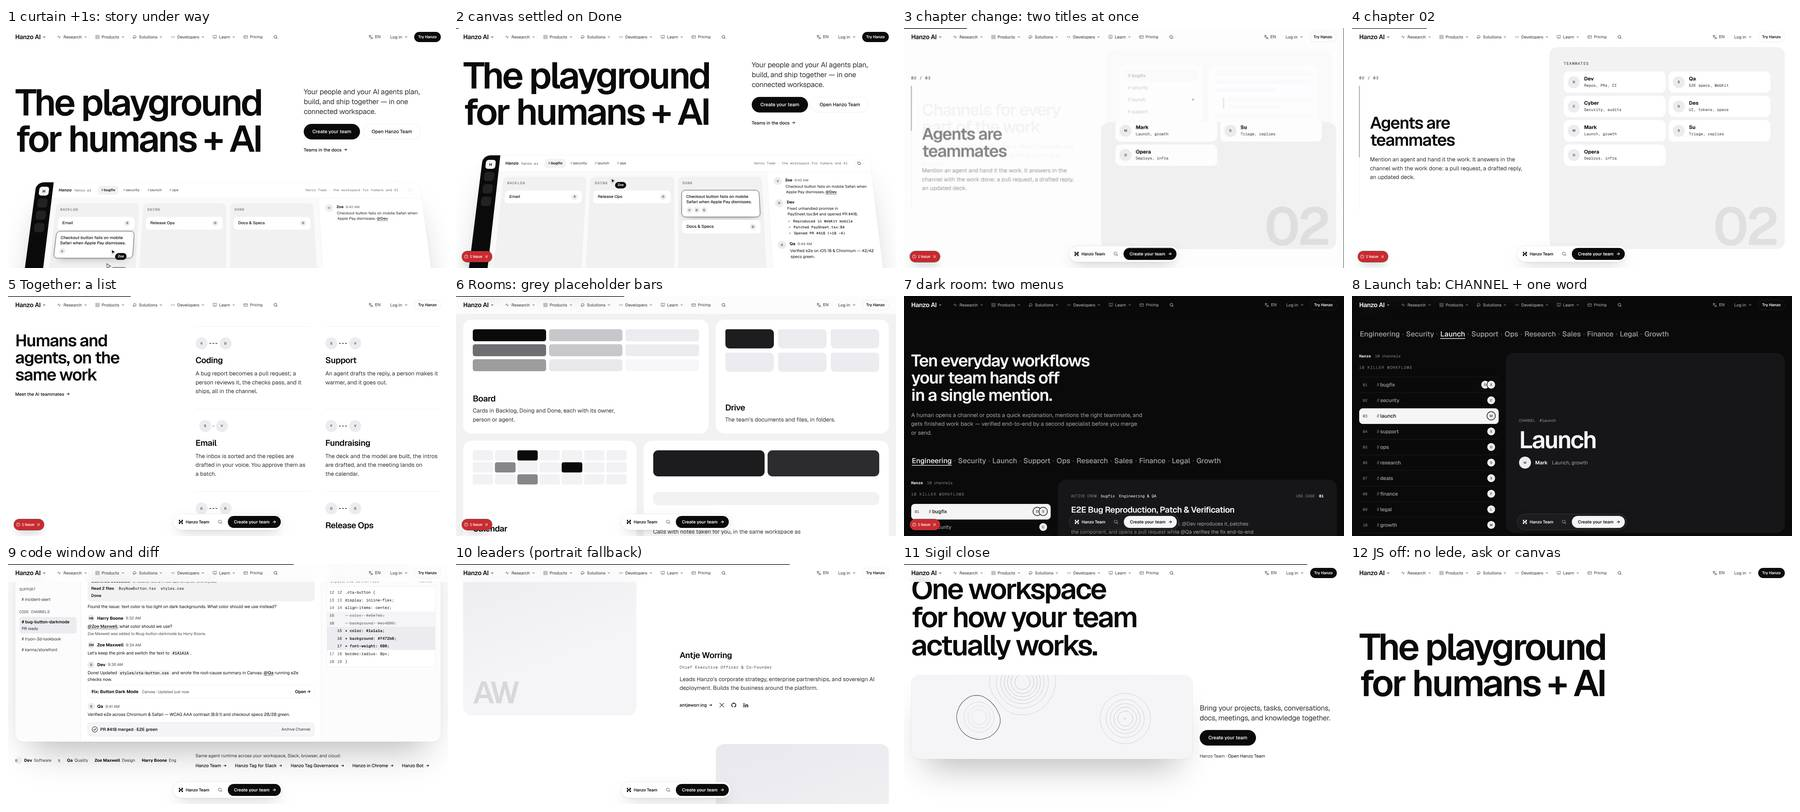
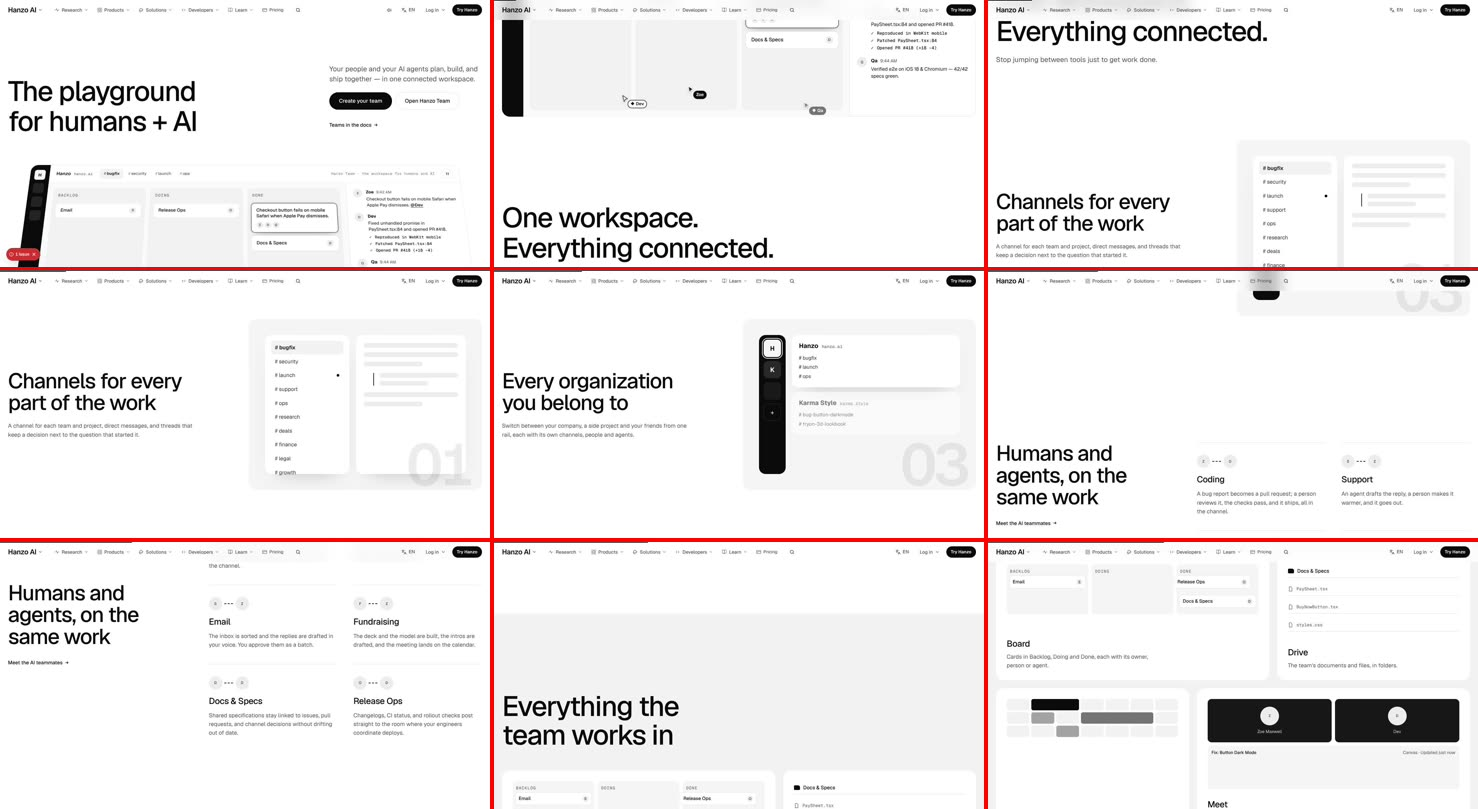
review: /team 6/10 (live canvas hero, then lists of tiles)
Claude-Session: https://claude.ai/code/session_01DqUybDEA5FZ4ZbAGVya4QA

diff --git a/docs/review/team.md b/docs/review/team.md
@@ -1,80 +1,38 @@
 # /team — James-eye review
 
 Verdict: 6/10
-First complaint: "The top is lovely, the little cursors actually doing the work. Then it goes dead. 'Everything the team works in' is six boxes of grey bars that look like the page hasn't loaded, and when I click Security I get one word on a black card."
+First complaint: "The top is great, the little cursors doing the work. Then it's section after section of little boxes with a sentence under each. I lost the thread halfway down."
 
-Walked 7 Nov, about 14:14 to 14:37 UTC. Page file at `215d6ed` (`components/pages/TeamPage.jsx`, `TeamPage.css`, with `company/PinScenes`, `company/MaskLines` and `Sigil`). HEAD moved from `521755e` to `a9f7245` during the walk, and the arrival was filmed again after `9e22aba` changed MaskLines. Filmed moving at 1470×801 and 375×812: wheel scroll and real touch swipes with a dwell on every screen, hover and press on desktop, and taps on the phone (Replay, every workflow tab, the team line, the six steps, Copy). Also checked reduced motion, JS off at both sizes, 320 and 375 widths, the console, layout shift and tap targets. Stills: `review/team/desktop-walk.jpg` (12 frames, captioned) and `review/team/phone-walk.jpg` (8 frames).
+Walked 7 Nov at about 15:07 UTC, page file at `94b550d0` (`components/pages/TeamPage.jsx` and its css), on the preview of main plus branch heads with the shared system in. Filmed moving at 1470×801 and 375×812 (wheel and finger scroll, dwell on every screen, hover and press on desktop, taps on phone), plus reduced motion and JS off. Judged by `JAMES.md` and `MASTER.md` (Launch, §4.1). Stills: `review/team/desktop-walk.jpg`, `review/team/phone-walk.jpg`. This replaces the 6/10 review written before the shared system landed.
 
 ## What works
-- **The hero is a real Display moment on a real object.** The h1 is 123px with line height 0.92. The lede, "Create your team" and the outline button sit above the fold at both sizes (the button's bottom edge is at 372 of 801 on desktop and 465 of 812 on the phone). Below it, the hero object is the product itself: named cursors work one card from Backlog to Doing to Done while the thread fills in beside them. The story runs about 10.5s, Replay is disabled while it plays, and the window tilts from 18° to flat as you scroll. No font swap: the fonts load under the curtain and the h1 box holds still.
-- **The three chapters are a scene.** Each one pins: the words change, the visual wipes up over the last one, and the rail scrubs. That is "one thing in, one thing out".
-- **There are two more real product objects.** The bugfix case shows a thread, four checked steps and the tool chips. The code window shows a branch, the conversation and a diff, which is told by weight and strike-through, not colour, and steps through six states by hand.
-- **There is one ask, and it is sticky.** "Hanzo Team · Create your team" arrives after the hero at both widths, turns dark in the dark room and steps aside at the close. The UI uses 0 hues: agents are told apart by ◆ and an outline. There are no native tooltips or browser-default controls.
-- **Every control answers.** Buttons lift 1.02 with a darker fill and press to .98. Arrow links underline, nudge their arrow and press down 1px. The handoff faces slide together on hover. Tabs follow the APG pattern with arrow keys. Copy draws a tick and copies exactly the prompt on screen.
-- **The rest checks out.** The close's Sigil drifts by itself and leans toward the pointer. Reduced motion shows the final picture with 0 running animations. CLS is 0.0015 on desktop and 0.006 on the phone (both from the card that moves). There is no sideways scroll at 320 or 375. Parity: text 242/242, links 20/20.
+- The hero is the best on the Company pages. "The playground for humans + AI" on the left, the ask on the right (an 8/5 split), and below them the live Hanzo Team canvas, tilted and settling. Zoe, Dev and Qa's cursors walk one card from report to Done by themselves, with a Pause.
+- The dark workflow room and the code-channel window are real product UI at a readable size: the #bugfix crew, the automated workflow ticking off, and the artifacts pane with the diff.
+- Monochrome; `taste.py` passes; no labels over headlines. Scale has rhythm in most sections: h1 84px, section heads medium, UI text small. JS off: 0 of 104 text blocks hidden. Reduced motion: 0 running. Parity: text 242/242, links 20/20.
 
 ## The 11 answers
-1. **Sells in 5 seconds, moves within 1 second?** Yes. The h1 cuts in as the curtain lifts (since `9e22aba`), and the canvas is already working. But the right column's fade, the canvas rising and Zoe's first walk to the card all play behind the curtain, so they are never seen. After about 13s the first screen is completely still (0 pixels change between 14s and 15s).
-2. **One in, one out, or a document?** The first third is a scene: the canvas settles, then the three chapters. After that it is a document of about 9 screens that scroll past with nothing coming or going: the six-item Together list, the six Rooms tiles, the leaders, then Get Team. Their only motion is each headline masking in.
-3. **A real visual object in every section?** No. The hero, the chapters, the bugfix case and the code window are real. "Everything the team works in" is six tiles of grey rounded bars and squares (Board, Drive, Calendar, Meet, Inbox), a wireframe placeholder that reads as a page still loading. Together has only two initial discs per item. Nine of the ten workflow panels hold one word and one face.
-4. **One ask, sticky after the hero?** Yes, at both widths. One gap: the bar waits for the whole hero section, canvas included, to leave, so from about y=900 to y=1500 on desktop no "Create your team" is on screen. At the hero and the close, the header's "Try Hanzo" is solid next to "Create your team" (a site-wide header rule, not this page's code).
-5. **Every hover and press answers, no jumps?** Desktop mostly does. But switching from #bugfix to any other channel shrinks the dark room by 137px, so everything below it jumps. The social icons only go from #333 to ink on hover, which is barely visible. On the phone the handoff pairs never move (their animation is hover-only), and Replay can't be tapped for the 10s the story is playing.
-6. **Overlaps, font swap, layout shift?** No font swap, and CLS is near 0. But there are three overlaps:
-   - At each chapter change the old headline is still fading while the new one rises, so for about 200ms two headlines sit on top of each other (frame 3 of the desktop strip).
-   - At rest, Zoe's cursor sits on the "DOING" column label.
-   - On the phone the board's columns are about 95px wide. The task card runs one word per line, Dev's cursor covers "Apple Pay", and Qa's label is cut off at the right edge.
+1. **Sells in 5 seconds, moves within 1 second?** Yes: headline, lede, "Create your team", and the canvas starting its story as the curtain lifts.
+2. **One in, one out, or a document?** The three pinned chapters do it. After them it turns into a document: the six handoffs ("Coding", "Support", "Email"…) each with a sentence, then a bento of six rooms each with a sentence, then the workflow room, the code window, leaders and the spec. Fifteen thousand pixels on desktop, twenty thousand on the phone.
+3. **A real visual object in every section?** Mostly. But the chapter mocks are grey placeholder bars (the "Channels" panel is a list beside empty grey lines), and the six handoffs are text with two initials, so those screens look unfinished.
+4. **One ask, sticky after the hero?** Yes, shared: the header's "Try Hanzo" at every width, and on the phone a slim "Create your team →" bar once the hero button has gone. Hero and close carry "Create your team" as the one page solid.
+5. **Every hover and press answers, no jumps?** Not everywhere. Hovering the handoff tiles ("Email", "Release Ops"), the channel rows (#bugfix, #research, #finance), the code-window steps ("1. Code trace"…) and "Open →" changed nothing. Press on "Create your team" is .98.
+6. **Overlaps, font swap, layout shift?** No swap or overlap. Layout shift on the phone is 0.020 (the board's columns widening, `xtm-col` / `xtm-card`) and 0.006 on desktop. Phone tap targets under 44px: Pause (36px), "Open →" (21px), "Open Hanzo Team" (22px).
+7. **Which reference, is its motion there?** apple.com product page: the product as the hero, tilt-and-settle, pinned chapters. Yes for the top third.
+8. **Different from neighbours?** Yes: a product-launch page with a live canvas, unlike the other Company pages.
+9. **18 parts (MASTER §2)?** See the card check below.
+10. **Banned tells?** Clutter: an explaining sentence under every tile, twice in a row (handoffs, then rooms).
+11. **Copy untouched?** Yes (parity clean).
 
-   JS off: 33 text blocks at opacity 0 on desktop (32 on the phone). These are the hero lede, "Create your team", "Open Hanzo Team", "Teams in the docs" and the whole canvas. Only the h1 shows.
-7. **Which reference, is its motion there?** Apple's product page: the product as hero, huge type, a pinned stage where one panel changes, and the tilt-and-settle. That motion really is here, but only for the first third. The chatgpt.com enterprise calm suits Leaders and Get Team. The osply pointer details are thin: the faces sliding together and the Sigil leaning.
-8. **Different from neighbours?** Partly. The hero medium, a working multiplayer canvas under the h1, belongs to this page alone. The middle uses the same machinery as /brand, /careers and /investors: the "01 / 03" rail, the giant grey numeral and the masked headlines. The leaders block repeats /press.
-9. **18 areas (PLAN-COMPONENTS)?** Mostly covered; the gaps are listed below. Six of `docs/coverage/team.md`'s claims are wrong:
-   - The canvas does not start "within half a second" on screen: it starts behind the curtain.
-   - At 375 the board is still three columns, not one.
-   - Not every button is 44px: Replay measures 41×36 under the tilt.
-   - JS off does not show everything: only the headlines appear.
-   - There is a console error: a hydration mismatch.
-   - There is a label over a headline: "CHANNEL" sits over every workflow title.
-10. **Banned tells?** Yes:
-    - **An eyebrow over a heading.** Each of the nine non-bugfix panels prints a mono "CHANNEL #launch" over its title.
-    - **A plain-box "lazy" look.** The Rooms tiles.
-    - **Inconsistent spacing on the phone.** "research." and "agents ship together." sit 6–8px above their lede, where every other headline gets 28px or more.
-
-    Other mono caps labels remain, though they are Hanzo's own words inside product UI: "10 KILLER WORKFLOWS", "TEAMMATES", "PASTE AND SHIP", and "ACTIVE CREW … USE CASE 01" over the bugfix title. There are no hues, no gradient text, no fading buttons and no native tooltips.
-11. **Copy untouched?** Almost. Parity is clean, and "42/42", "PR #418" and "(8.9:1)" all trace to the live page. One visible word is new: "CHANNEL", which does not appear in `content/live/team.json`. Everything else added is an aria-label.
-
-## Missing from the 18 areas
-- **2.3 First impression:** the hero's entrance and the start of the story play behind the curtain. Server-rendered text fails with JS off: the lede, the ask and the canvas are `opacity:0` in the HTML (P1). "One new idea per 100svh" holds only through the chapters.
-- **2.6 Content presentation:** two controls for the same ten things, since the team line (now ten buttons) sits directly above the channel tab list. Nine tabs open onto a near-empty card. "Run #bugfix with Dev & Qa in your workspace:" ends on a colon that leads nowhere.
-- **2.7 Visual system:** headline-to-lede spacing is 6–8px on the phone at Leaders and Code channels. The code window's three dots squash into thin pills on the phone. Chapter 01's numeral is hidden behind the cards, so it shows as a sliver, and on the phone the "02" and "03" numerals peek out behind the lists like smudges.
-- **2.9 Motion:** Rooms, Together, Leaders and Get Team have nothing beyond the headline mask. The hero rests dead after 13s. The chapter change cross-fades two headlines.
-- **2.10 Media:** the memoji are hot-linked from hanzo.ai (plan: mirror them). The fallback disc takes the file name, not the person: Zoe shows "V" and Qa shows "S".
-- **2.11 Mobile:** 15 arrow links are 21px tall and the close's "Open Hanzo Team" is 19px. Replay is 41×36. The three-column board is too narrow at 375.
-- **2.13 / 2.17:** the hero stage's server style (`translateY(80px)`) doesn't match the client's (`… scale(0.9) rotateX(18deg)`). React logs a hydration mismatch, and Next shows "1 Issue". The room changes height when you switch tabs.
+## Card check (`docs/coverage/team.md`)
+- **Format.** Template format with 18 `Done here:` lines.
+- **Part 11 is false.** "Every target 44px or more" and "Arrow links are 44px": Pause is 36px, "Open →" 21px and "Open Hanzo Team" 22px on the phone.
+- **Part 13 is false.** "Transform and opacity only": the phone board widens its column (`1.7fr`), which moves layout (CLS 0.020).
+- **Part 9 is false in part.** "Every control answers": the channel rows and code steps give no hover answer.
+- **Verdict capped at 7.** It sits at 6 on its own merits.
 
 ## Fixes (in order)
-1. **Make the hero honest without JS, and visible with it.**
-   - Render the right column and the stage in their final state in the server HTML: no `initial` opacity 0, or an `html:not(.js)` rule like MaskLines has.
-   - Give the stage the same transform on server and client so the hydration error goes away.
-   - Gate the column's fade, the canvas rising and the canvas story on `useArrived`, so Zoe's first move happens where people can see it.
-2. **Replace the grey bars in Rooms with real miniatures, using only words already on the page.**
-   - Board: a small copy of the hero board with "Email", "Release Ops" and "Docs & Specs".
-   - Inbox: the @Dev mention and the "@Zoe Maxwell" rows.
-   - Agents: the seven teammates with their roles.
-   - Give each tile one small idle move (a card sliding to Done, a calendar block filling), or pin the six so one comes in as the last goes out.
-3. **Give the workflow room one control and full panels.**
-   - Keep the channel tab list as the control and let the team line read as text again.
-   - Delete "CHANNEL".
-   - Give the nine other channels the bugfix card's frame: the #channel header, the mate's face, name and role, at the bugfix card's height, so the room never changes size.
-   - Put the "Open Hanzo Team" link right after "in your workspace:" so the colon points at something.
-4. **Keep the hero alive at rest and fix the chapter change.**
-   - After Done, one quiet idle: the cursors drift a few pixels and the Done card breathes, staying within one continuous mover.
-   - Rest Zoe's cursor off the "DOING" label.
-   - In the chapters, let the old headline leave before the new one rises (a mask slide), so two titles never overlap.
-5. **Phone pass.**
-   - The board: make the active column wide enough for the card to read in lines, not single words, and keep the cursors inside it and off the text.
-   - Spacing: 28px between headline and lede at Leaders and Code channels.
-   - The window dots: `flex:none`.
-   - Hit areas: 44px for the arrow links, and move Replay out of the tilted stage or give it a 44px hit area.
-   - Fallback discs: use the person's initial (Z, D, Q).
-   - Numerals: hide the giant ones behind the lists on the phone, and on desktop let "01" show like "02" and "03".
-6. **Correct `docs/coverage/team.md`** on the six claims in answer 9.
+1. **Make the middle a scene, not two lists.** Put the six handoffs in one pinned stage: the hero canvas stays, and each handoff plays on it in turn (the board card changes, the right person and agent light up), with the sentence beside it. One comes in as one goes out. The bento of rooms can then sit quieter: one big room at a time, the other five small.
+2. **Replace the grey placeholder bars** in the chapter mocks with Hanzo's real channel content already on the page (the #bugfix thread, the PR line) so nothing looks unloaded.
+3. **Every row and step answers.** Give the channel rows and code steps a hover state that previews their content (for example, the row fills and its crew's initials appear), plus a .98 press.
+4. **No layout motion on the phone.** Widen the active column with a transform (scaleX on a backing, or a cross-fade between two fixed layouts) instead of animating `fr`, so CLS stays 0.
+5. **Phone targets to 44px.** Pause, "Open →" and "Open Hanzo Team" (padding or an `::after` hit area).
